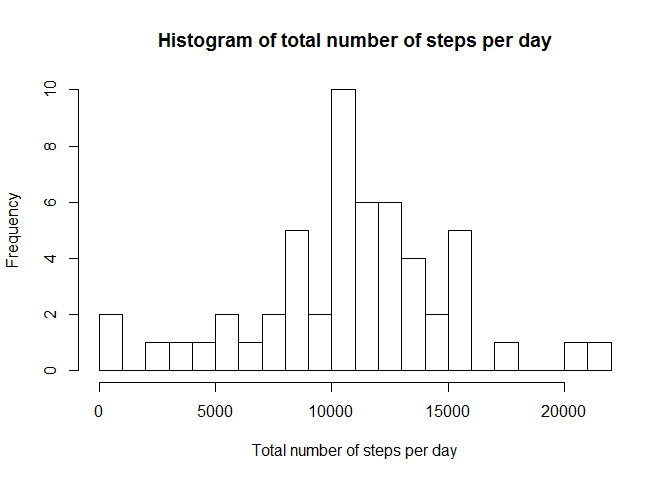
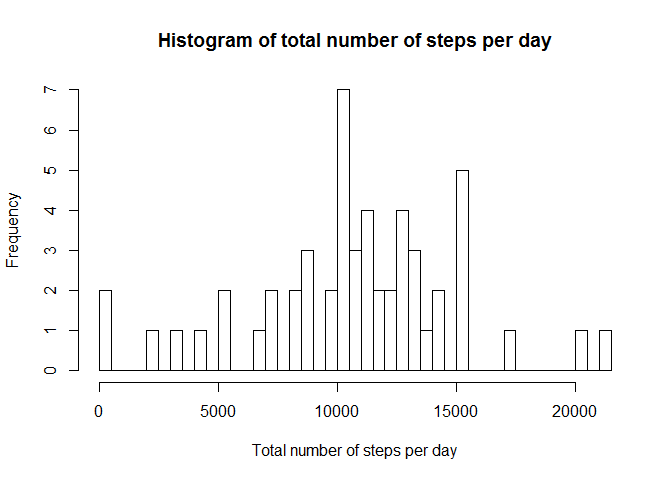
Wrote section on replacing NA values and afterwards redoing the previous analysis steps.

diff --git a/PA1_template.html b/PA1_template.html
@@ -79,8 +79,8 @@ img {
 <pre class="r"><code>totalNumberStepsPerDay &lt;- aggregate(procdata$steps, by=list(procdata$date), FUN=sum)</code></pre>
 <p>A histogram of can be plotted using he hist function:</p>
 <pre class="r"><code>names(totalNumberStepsPerDay) &lt;- c(&quot;Date&quot;, &quot;Steps_total&quot;)
-hist(totalNumberStepsPerDay$Steps_total, breaks=25, main=&quot;Histogram of total number of steps per day&quot;, xlab=&quot;Total number of steps per day&quot;)</code></pre>
[1 lines of base64/hex data omitted]
+hist(totalNumberStepsPerDay$Steps_total, breaks=40, main=&quot;Histogram of total number of steps per day&quot;, xlab=&quot;Total number of steps per day&quot;)</code></pre>
[1 lines of base64/hex data omitted]
 <p>The mean and median of the total number of steps are calculated:</p>
 <pre class="r"><code>meanStepsIgnoredNAs &lt;- mean(totalNumberStepsPerDay$Steps_total)
 medianStepsIgnoredNAs &lt;- median(totalNumberStepsPerDay$Steps_total)</code></pre>
@@ -95,7 +95,7 @@ medianStepsIgnoredNAs &lt;- median(totalNumberStepsPerDay$Steps_total)</code></p
 <h2>What is the average daily activity pattern?</h2>
 <p>To analyze the daily activity pattern, we first have to calculate the average on all 5min periods:</p>
 <pre class="r"><code>fiveMinAvg &lt;- aggregate(procdata$steps, by=list(procdata$interval), FUN=mean)</code></pre>
-<p>Now we plot these average as a time series:</p>
+<p>Now we plot these averages as a time series:</p>
 <pre class="r"><code>names(fiveMinAvg) &lt;- c(&quot;interval&quot;, &quot;steps_avg&quot;)
 plot(fiveMinAvg, type=&quot;l&quot;, xlab=&quot;5min interval&quot;, ylab=&quot;Mean number of steps&quot;, main=&quot;Average number of steps over 5min intervals of a day&quot;)</code></pre>
[1 lines of base64/hex data omitted]
@@ -106,35 +106,40 @@ plot(fiveMinAvg, type=&quot;l&quot;, xlab=&quot;5min interval&quot;, ylab=&quot;
 </div>
 <div id="inputing-missing-values" class="section level2">
 <h2>Inputing missing values</h2>
-<p>The number of rows with missing values in the data set is (calculated similarly to :</p>
+<p>The number of rows with missing values in the data set is:</p>
 <pre class="r"><code>length(rawdata[is.na(rawdata[&quot;steps&quot;]),]$steps)</code></pre>
 <pre><code>## [1] 2304</code></pre>
-<p>To fill in the missing values, the NA will be replaced with the median of the missing time interval over all days. The filled data set is calculated like this:</p>
-<pre class="r"><code>fiveMinMedian &lt;- aggregate(procdata$steps, by=list(procdata$interval), FUN=median)
-names(fiveMinMedian) &lt;- c(&quot;interval&quot;, &quot;steps_median&quot;)
-
-filleddata &lt;- rawdata
+<p>To fill in the missing values, I chose the strategy to replace the NA values with the mean of the missing time interval over all days. The filled data set is therefore calculated like this:</p>
+<ol style="list-style-type: decimal">
+<li>First calculate means for all five minute periods:</li>
+</ol>
+<pre class="r"><code>fiveMinMean &lt;- aggregate(procdata$steps, by=list(procdata$interval), FUN=mean)
+names(fiveMinMean) &lt;- c(&quot;interval&quot;, &quot;steps_mean&quot;)</code></pre>
+<ol start="2" style="list-style-type: decimal">
+<li>Replace each NA with the median of the respective 5min period:</li>
+</ol>
+<pre class="r"><code>filleddata &lt;- rawdata
 for (i in 1:nrow(filleddata)){
   if (is.na(filleddata[i, &quot;steps&quot;])){
-    filleddata[i, &quot;steps&quot;] &lt;- fiveMinMedian[fiveMinMedian[,&quot;interval&quot;]==filleddata[i, &quot;interval&quot;], &quot;steps_median&quot;]
+    filleddata[i, &quot;steps&quot;] &lt;- fiveMinMean[fiveMinMean[,&quot;interval&quot;]==filleddata[i, &quot;interval&quot;], &quot;steps_mean&quot;]
   }
 }</code></pre>
 <div id="redo-of-total-number-of-steps-analysis-steps" class="section level3">
 <h3>Redo of total number of steps analysis steps</h3>
-<p>To compare this new data with replaced NAs with the previously used data, the calculations and steps from previously is repeated with the new data.</p>
+<p>To compare this new data with replaced NAs with the previously used data, the calculations and steps from previously have to be repeated using the new data.</p>
 <p>First, calculate the sum of steps for each day and plot it as a histogram:</p>
 <pre class="r"><code>totalNumberStepsPerDayReplNa &lt;- aggregate(filleddata$steps, by=list(filleddata$date), FUN=sum)
 names(totalNumberStepsPerDayReplNa) &lt;- c(&quot;Date&quot;, &quot;Steps_total&quot;)
-hist(totalNumberStepsPerDayReplNa$Steps_total, breaks=25, main=&quot;Histogram of total number of steps per day (with replaced NAs)&quot;, xlab=&quot;Total number of steps per day&quot;)</code></pre>
[1 lines of base64/hex data omitted]
+hist(totalNumberStepsPerDayReplNa$Steps_total, breaks=40, main=&quot;Histogram of total number of steps per day (with replaced NAs)&quot;, xlab=&quot;Total number of steps per day&quot;)</code></pre>
[1 lines of base64/hex data omitted]
 <p>The mean and median of the total number of steps are calculated:</p>
 <pre class="r"><code>meanStepsReplacedNAs &lt;- mean(totalNumberStepsPerDayReplNa$Steps_total)
 medianStepsReplacedNAs &lt;- median(totalNumberStepsPerDayReplNa$Steps_total)</code></pre>
 <p>And the results are as follows:</p>
 <pre class="r"><code>meanStepsReplacedNAs</code></pre>
-<pre><code>## [1] 9503.869</code></pre>
+<pre><code>## [1] 10766.19</code></pre>
 <pre class="r"><code>medianStepsReplacedNAs</code></pre>
-<pre><code>## [1] 10395</code></pre>
+<pre><code>## [1] 10766.19</code></pre>
 </div>
 <div id="comparison-of-results-with-ignored-nas-and-replaced-nas" class="section level3">
 <h3>Comparison of results with ignored NAs and replaced NAs</h3>
@@ -143,19 +148,14 @@ medianStepsReplacedNAs &lt;- median(totalNumberStepsPerDayReplNa$Steps_total)</c
 names(stepMeans) &lt;- c(&quot;Ignore_NAs&quot;, &quot;Replaced_NAs&quot;)
 stepMeans</code></pre>
 <pre><code>##   Ignore_NAs Replaced_NAs 
-##    10766.189     9503.869</code></pre>
+##     10766.19     10766.19</code></pre>
 <p>And the same for the medians:</p>
 <pre class="r"><code>stepMedians &lt;- c(medianStepsIgnoredNAs, medianStepsReplacedNAs)
 names(stepMedians) &lt;- c(&quot;Ignore_NAs&quot;, &quot;Replaced_NAs&quot;)
 stepMedians</code></pre>
 <pre><code>##   Ignore_NAs Replaced_NAs 
-##        10765        10395</code></pre>
-<p>Apparently, mean as well as median are higher if the entries <em>with</em> an NA value are just ignored. When looking more deeply into the matter, one reason for this can be found: When ignoring the NA entries, there are whole days missing:</p>
-<pre class="r"><code>length(totalNumberStepsPerDay$Date)</code></pre>
-<pre><code>## [1] 53</code></pre>
-<p>vs.</p>
-<pre class="r"><code>length(totalNumberStepsPerDayReplNa$Date)</code></pre>
-<pre><code>## [1] 61</code></pre>
+##     10765.00     10766.19</code></pre>
+<p>As these numbers show, there is not much difference whether one <em>does</em> ignore the NA values or one <em>replaces</em> them with the mean of the respective interval of the day.</p>
 </div>
 </div>
 <div id="are-there-differences-in-activity-patterns-between-weekdays-and-weekends" class="section level2">

diff --git a/PA1_template.md b/PA1_template.md
@@ -35,7 +35,7 @@ A histogram of can be plotted using he hist function:
 
 ```r
 names(totalNumberStepsPerDay) <- c("Date", "Steps_total")
-hist(totalNumberStepsPerDay$Steps_total, breaks=25, main="Histogram of total number of steps per day", xlab="Total number of steps per day")
+hist(totalNumberStepsPerDay$Steps_total, breaks=40, main="Histogram of total number of steps per day", xlab="Total number of steps per day")
 ```
 
 ![](PA1_template_files/figure-html/unnamed-chunk-4-1.png) 
@@ -80,7 +80,7 @@ To analyze the daily activity pattern, we first have to calculate the average on
 fiveMinAvg <- aggregate(procdata$steps, by=list(procdata$interval), FUN=mean)
 ```
 
-Now we plot these average as a time series:
+Now we plot these averages as a time series:
 
 
 ```r
@@ -105,7 +105,7 @@ fiveMinAvg[which.max(fiveMinAvg$steps_avg),][1,1]
 <!--- ============================================================================= --->
 ## Inputing missing values
 
-The number of rows with missing values in the data set is (calculated similarly to :
+The number of rows with missing values in the data set is:
 
 
 ```r
@@ -117,17 +117,25 @@ length(rawdata[is.na(rawdata["steps"]),]$steps)
 ```
 
 
-To fill in the missing values, the NA will be replaced with the median of the missing time interval over all days. The filled data set is calculated like this:
+To fill in the missing values, I chose the strategy to replace the NA values with the mean of the missing time interval over all days. The filled data set is therefore calculated like this:
+
+1) First calculate means for all five minute periods:
 
 
 ```r
-fiveMinMedian <- aggregate(procdata$steps, by=list(procdata$interval), FUN=median)
-names(fiveMinMedian) <- c("interval", "steps_median")
+fiveMinMean <- aggregate(procdata$steps, by=list(procdata$interval), FUN=mean)
+names(fiveMinMean) <- c("interval", "steps_mean")
+```
 
+
+2) Replace each NA with the median of the respective 5min period:
+
+
+```r
 filleddata <- rawdata
 for (i in 1:nrow(filleddata)){
   if (is.na(filleddata[i, "steps"])){
-    filleddata[i, "steps"] <- fiveMinMedian[fiveMinMedian[,"interval"]==filleddata[i, "interval"], "steps_median"]
+    filleddata[i, "steps"] <- fiveMinMean[fiveMinMean[,"interval"]==filleddata[i, "interval"], "steps_mean"]
   }
 }
 ```
@@ -135,7 +143,7 @@ for (i in 1:nrow(filleddata)){
 
 ### Redo of total number of steps analysis steps
 
-To compare this new data with replaced NAs with the previously used data, the calculations and steps from previously is repeated with the new data.
+To compare this new data with replaced NAs with the previously used data, the calculations and steps from previously have to be repeated using the new data.
 
 
 First, calculate the sum of steps for each day and plot it as a histogram:
@@ -144,10 +152,10 @@ First, calculate the sum of steps for each day and plot it as a histogram:
 ```r
 totalNumberStepsPerDayReplNa <- aggregate(filleddata$steps, by=list(filleddata$date), FUN=sum)
 names(totalNumberStepsPerDayReplNa) <- c("Date", "Steps_total")
-hist(totalNumberStepsPerDayReplNa$Steps_total, breaks=25, main="Histogram of total number of steps per day (with replaced NAs)", xlab="Total number of steps per day")
+hist(totalNumberStepsPerDayReplNa$Steps_total, breaks=40, main="Histogram of total number of steps per day (with replaced NAs)", xlab="Total number of steps per day")
 ```
 
-![](PA1_template_files/figure-html/unnamed-chunk-12-1.png) 
+![](PA1_template_files/figure-html/unnamed-chunk-13-1.png) 
 
 
 The mean and median of the total number of steps are calculated:
@@ -166,7 +174,7 @@ meanStepsReplacedNAs
 ```
 
 ```
-## [1] 9503.869
+## [1] 10766.19
 ```
 
 ```r
@@ -174,7 +182,7 @@ medianStepsReplacedNAs
 ```
 
 ```
-## [1] 10395
+## [1] 10766.19
 ```
 
 
@@ -191,7 +199,7 @@ stepMeans
 
 ```
 ##   Ignore_NAs Replaced_NAs 
-##    10766.189     9503.869
+##     10766.19     10766.19
 ```
 
 And the same for the medians:
@@ -205,33 +213,10 @@ stepMedians
 
 ```
 ##   Ignore_NAs Replaced_NAs 
-##        10765        10395
+##     10765.00     10766.19
 ```
 
-Apparently, mean as well as median are higher if the entries *with* an NA value are just ignored. When looking more deeply into the matter, one reason for this can be found: When ignoring the NA entries, there are whole days missing:
-
-
-```r
-length(totalNumberStepsPerDay$Date)
-```
-
-```
-## [1] 53
-```
-
-vs.
-
-
-```r
-length(totalNumberStepsPerDayReplNa$Date)
-```
-
-```
-## [1] 61
-```
-
-
-
+As these numbers show, there is not much difference whether one *does* ignore the NA values or one *replaces* them with the mean of the respective interval of the day.
 
 
 ## Are there differences in activity patterns between weekdays and weekends?
